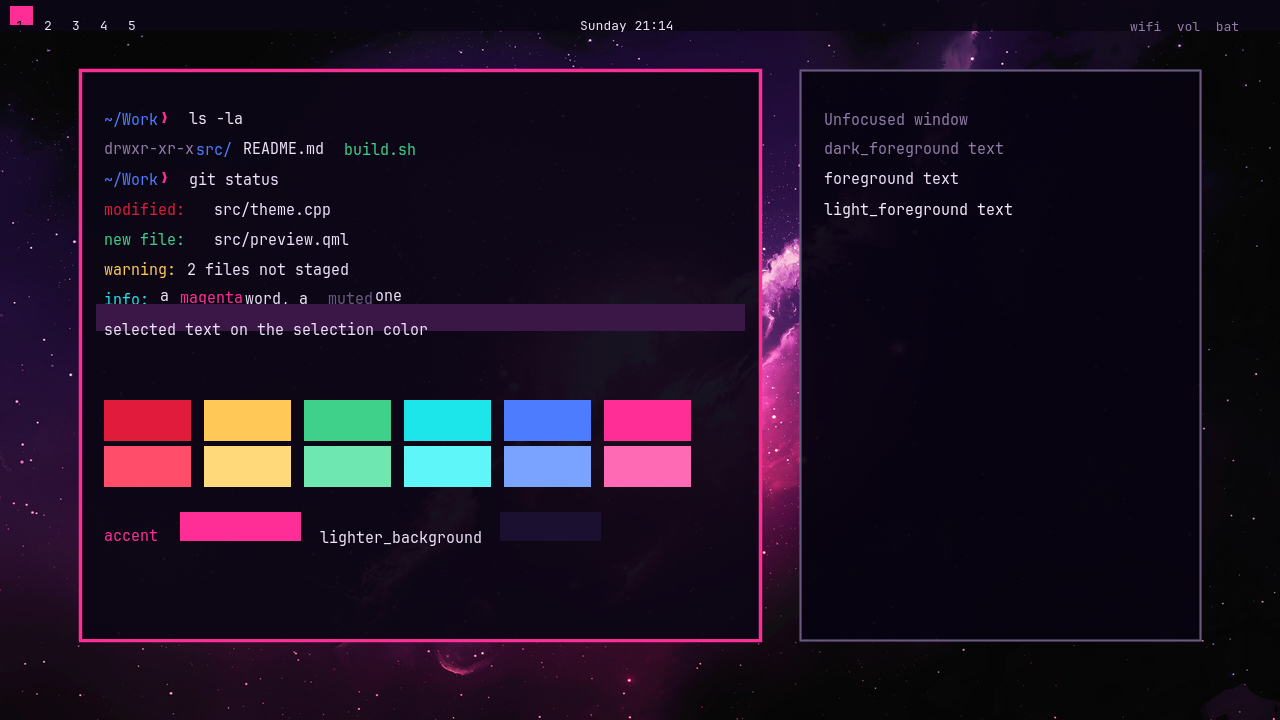
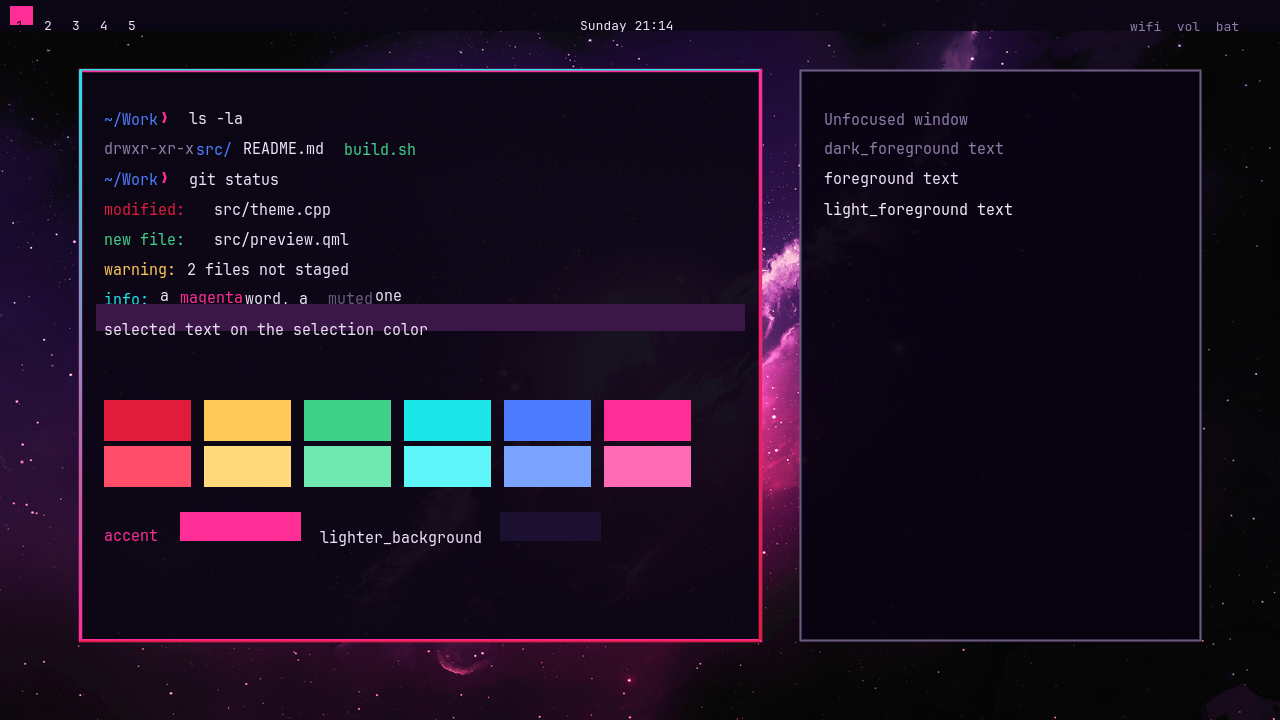
Show the active border gradient in the theme preview

Changed region(s): [[0.0625, 0.0917, 0.0938, 0.1222]]

diff --git a/README.md b/README.md
@@ -5,6 +5,8 @@ with Monsters* by Shirtaloon (Travis Deverell), and from Jason Asano's essences.
 
 ![Cloak of Night on an Omarchy desktop](preview.png)
 
+The focused window shows the real 45° active border — cyan → pink → blood red.
+
 Jason's Cloak of Night is "a voluminous cloak ... more like an object of living
 darkness than fabric, dotted with tiny points of light ... tiny stars in the
 night sky of the shadowy garb". His soul crest is a floating black cloak on a
